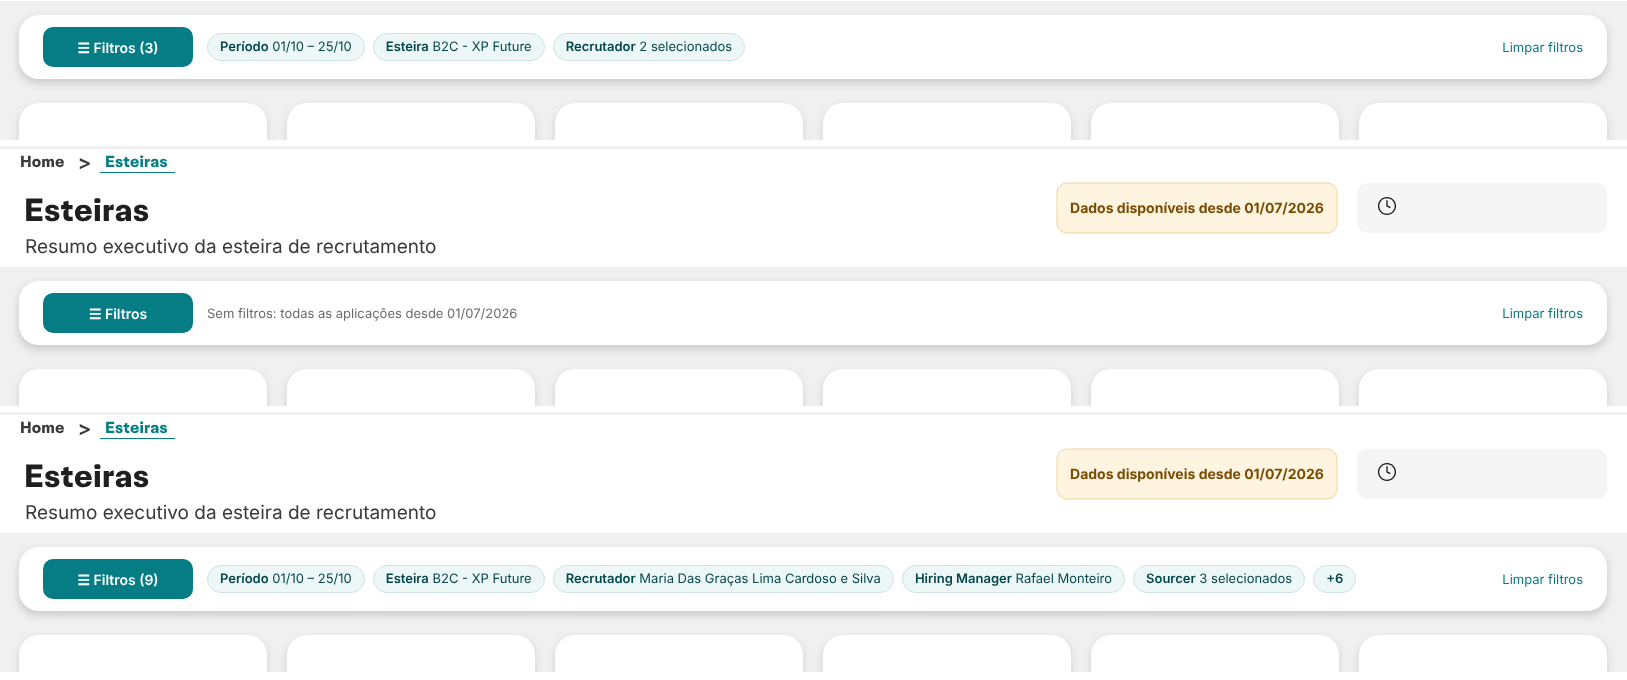
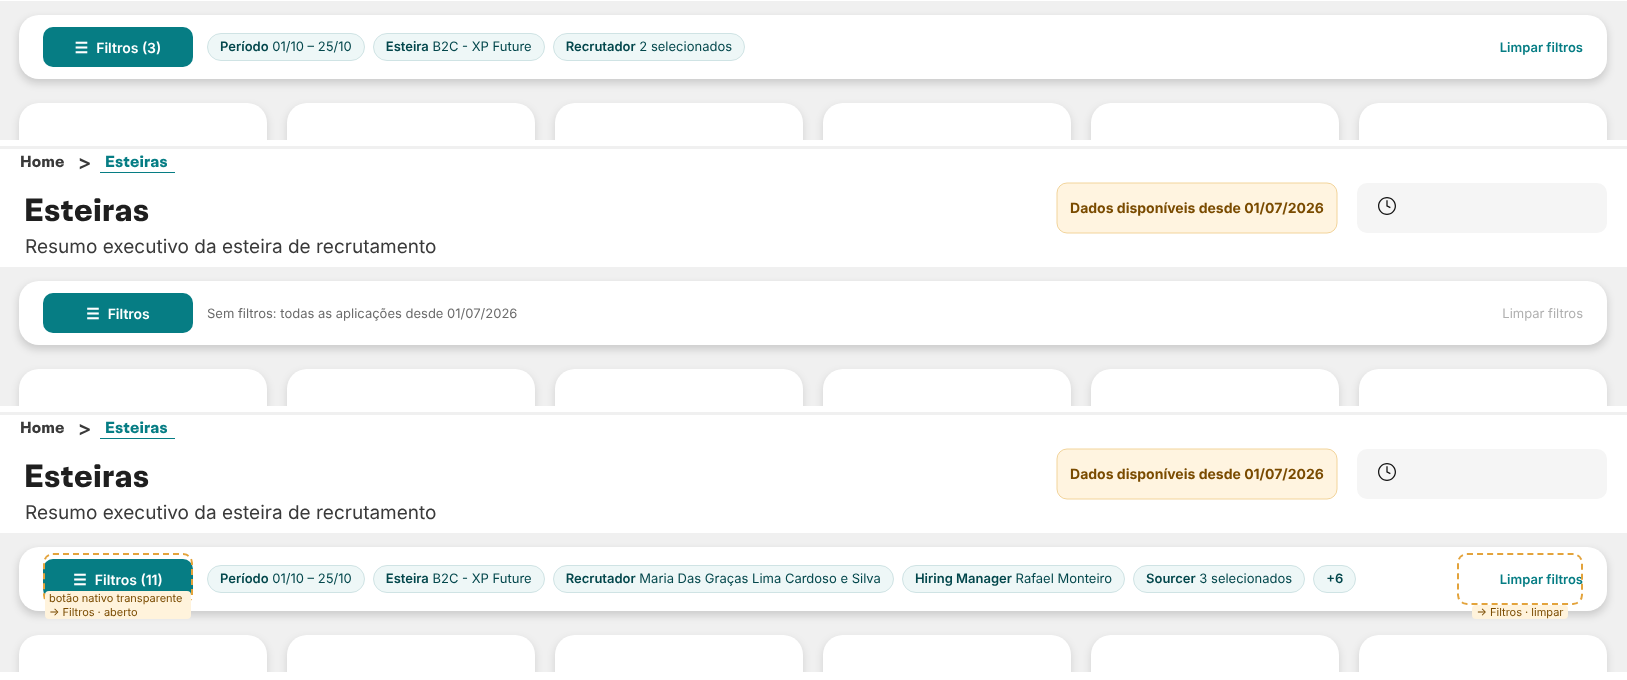
XP · Barra de filtros 1.1.0: botão Filtros, pílulas e Limpar num visual só (cliques por botões nativos transparentes)
Claude-Session: https://claude.ai/code/session_01K4TQMJzhNnUz8FWZ4bGAJu

diff --git a/visuals/xpChips/src/visual.ts b/visuals/xpChips/src/visual.ts
@@ -12,8 +12,11 @@ import IVisualHost = powerbi.extensibility.visual.IVisualHost;
 import { ChipsSettings } from "./settings";
 import { xpFont } from "./xpTheme";
 
-// Pílulas dos filtros em uso. Texto da medida: "Rótulo|valor" separados por ";;".
-// O que não couber vira "+N" (passe o mouse para ver todos).
+interface Chip { label: string; value: string; }
+
+// Barra de filtros: [☰ Filtros (n)] · pílulas dos filtros em uso · Limpar filtros.
+// Visual personalizado não aciona indicadores: os cliques de "Filtros" e "Limpar" vêm de botões nativos
+// transparentes posicionados por cima (larguras fixas em Formatar → Layout).
 export class Visual implements IVisual {
     private host: IVisualHost;
     private root: HTMLElement;
@@ -33,11 +36,14 @@ export class Visual implements IVisual {
         try {
             const dv = options.dataViews && options.dataViews[0];
             this.settings = this.formattingSettingsService.populateFormattingSettingsModel(ChipsSettings, dv);
-            const raw = dv && dv.single ? dv.single.value : null;
-            const chips = String(raw === null || raw === undefined ? "" : raw)
+            const vals = (dv && dv.categorical && dv.categorical.values) || [];
+            const pick = (role: string) => { const c = vals.find(v => v.source.roles && v.source.roles[role]); return c ? c.values[0] : null; };
+            const raw = pick("texto");
+            const chips: Chip[] = String(raw === null || raw === undefined ? "" : raw)
                 .split(";;").map(x => x.trim()).filter(Boolean)
                 .map(x => { const k = x.indexOf("|"); return k < 0 ? { label: "", value: x } : { label: x.slice(0, k).trim(), value: x.slice(k + 1).trim() }; });
-            this.render(chips);
+            const q = Number(pick("qtde"));
+            this.render(chips, isFinite(q) && pick("qtde") !== null ? q : chips.length);
             this.host.eventService.renderingFinished(options);
         } catch (e) {
             this.host.eventService.renderingFailed(options, String(e));
@@ -48,17 +54,28 @@ export class Visual implements IVisual {
         return this.formattingSettingsService.buildFormattingModel(this.settings);
     }
 
-    private render(chips: { label: string; value: string }[]) {
-        const s = this.settings.cores;
+    private render(chips: Chip[], qtde: number) {
+        const s = this.settings;
         const root = this.root;
         root.style.fontFamily = xpFont;
-        root.style.setProperty("--xp-ch-bg", s.fundo.value.value);
-        root.style.setProperty("--xp-ch-border", s.borda.value.value);
-        root.style.setProperty("--xp-ch-text", s.texto.value.value);
+        root.style.setProperty("--xp-ch-accent", s.cores.destaque.value.value);
+        root.style.setProperty("--xp-ch-bg", s.cores.fundo.value.value);
+        root.style.setProperty("--xp-ch-border", s.cores.borda.value.value);
+        root.style.setProperty("--xp-ch-text", s.cores.texto.value.value);
         while (root.firstChild) root.removeChild(root.firstChild);
-        root.removeAttribute("title");
+
+        const btn = el("div", "xp-ch__btn");
+        btn.style.width = Math.max(60, s.layout.larguraBotao.value) + "px";
+        btn.appendChild(el("span", "xp-ch__ico", "☰"));
+        btn.appendChild(document.createTextNode((s.textos.botao.value || "Filtros") + (qtde > 0 ? ` (${qtde})` : "")));
+        const strip = el("div", "xp-ch__strip");
+        const clear = el("div", "xp-ch__clear" + (qtde > 0 || chips.length ? "" : " xp-ch__clear--off"), s.textos.limpar.value || "Limpar filtros");
+        clear.style.width = Math.max(40, s.layout.larguraLimpar.value) + "px";
+        root.append(btn, strip, clear);
+
+        strip.removeAttribute("title");
         if (!chips.length) {
-            root.appendChild(el("span", "xp-ch__empty", this.settings.textos.vazio.value || ""));
+            strip.appendChild(el("span", "xp-ch__empty", s.textos.vazio.value || ""));
             return;
         }
         const nodes = chips.map(c => {
@@ -66,22 +83,22 @@ export class Visual implements IVisual {
             if (c.label) n.appendChild(el("b", "", c.label));
             n.appendChild(document.createTextNode((c.label ? " " : "") + c.value));
             n.title = (c.label ? c.label + ": " : "") + c.value;
-            root.appendChild(n);
+            strip.appendChild(n);
             return n;
         });
         // Esconde do fim para o começo até caber, deixando espaço para o "+N".
         const more = el("span", "xp-ch__chip xp-ch__more", "");
-        root.appendChild(more);
+        strip.appendChild(more);
         more.style.display = "none";
         let hidden = 0;
-        const overflow = () => root.scrollWidth > root.clientWidth + 1;
+        const overflow = () => strip.scrollWidth > strip.clientWidth + 1;
         for (let i = nodes.length - 1; i > 0 && overflow(); i--) {
             nodes[i].style.display = "none";
             hidden++;
             more.textContent = "+" + hidden;
             more.style.display = "";
         }
-        if (hidden) root.title = chips.map(c => (c.label ? c.label + ": " : "") + c.value).join("\n");
+        if (hidden) strip.title = chips.map(c => (c.label ? c.label + ": " : "") + c.value).join("\n");
     }
 }
 

diff --git a/visuals/xpChips/src/settings.ts b/visuals/xpChips/src/settings.ts
@@ -6,23 +6,36 @@ import Card = formattingSettings.SimpleCard;
 import Model = formattingSettings.Model;
 
 class TextosCard extends Card {
+    botao = new formattingSettings.TextInput({ name: "botao", displayName: "Texto do botão", value: "Filtros", placeholder: "" });
+    limpar = new formattingSettings.TextInput({ name: "limpar", displayName: "Texto de limpar", value: "Limpar filtros", placeholder: "" });
     vazio = new formattingSettings.TextInput({ name: "vazio", displayName: "Texto sem filtro", value: "Sem filtros: todas as aplicações desde 01/07/2026", placeholder: "" });
     name = "textos";
     displayName = "Textos";
-    slices = [this.vazio];
+    slices = [this.botao, this.limpar, this.vazio];
+}
+
+// Larguras fixas para o botão nativo transparente ficar exatamente por cima.
+class LayoutCard extends Card {
+    larguraBotao = new formattingSettings.NumUpDown({ name: "larguraBotao", displayName: "Largura do botão (px)", value: 150 });
+    larguraLimpar = new formattingSettings.NumUpDown({ name: "larguraLimpar", displayName: "Largura de limpar (px)", value: 126 });
+    name = "layout";
+    displayName = "Layout";
+    slices = [this.larguraBotao, this.larguraLimpar];
 }
 
 class CoresCard extends Card {
+    destaque = new formattingSettings.ColorPicker({ name: "destaque", displayName: "Cor do botão", value: { value: "#067D84" } });
     fundo = new formattingSettings.ColorPicker({ name: "fundo", displayName: "Fundo da pílula", value: { value: "#EEF7F7" } });
     borda = new formattingSettings.ColorPicker({ name: "borda", displayName: "Borda da pílula", value: { value: "#CFE3E4" } });
     texto = new formattingSettings.ColorPicker({ name: "texto", displayName: "Texto da pílula", value: { value: "#03474C" } });
     name = "cores";
     displayName = "Cores";
-    slices = [this.fundo, this.borda, this.texto];
+    slices = [this.destaque, this.fundo, this.borda, this.texto];
 }
 
 export class ChipsSettings extends Model {
     textos = new TextosCard();
+    layout = new LayoutCard();
     cores = new CoresCard();
-    cards = [this.textos, this.cores];
+    cards = [this.textos, this.layout, this.cores];
 }

diff --git a/visuals/xpChips/style/visual.less b/visuals/xpChips/style/visual.less
@@ -1,7 +1,13 @@
 .xp-ch {
-    position: absolute; inset: 0; display: flex; align-items: center; gap: 8px; overflow: hidden;
+    position: absolute; inset: 0; display: flex; align-items: center; gap: 14px;
     white-space: nowrap; font-size: 13px; color: #121212;
 }
+.xp-ch__btn {
+    flex: 0 0 auto; box-sizing: border-box; height: 40px; display: flex; align-items: center; justify-content: center; gap: 8px;
+    background: var(--xp-ch-accent); color: #FFFFFF; border-radius: 10px; font-weight: 600; font-size: 14px;
+}
+.xp-ch__ico { font-size: 15px; }
+.xp-ch__strip { flex: 1 1 auto; min-width: 0; display: flex; align-items: center; gap: 8px; overflow: hidden; }
 .xp-ch__chip {
     flex: 0 0 auto; border: 1px solid var(--xp-ch-border); background: var(--xp-ch-bg); color: var(--xp-ch-text);
     border-radius: 14px; padding: 5px 12px; line-height: 1.2;
@@ -9,3 +15,5 @@
 }
 .xp-ch__more { font-weight: 600; cursor: help; }
 .xp-ch__empty { color: #6B6B6B; font-size: 13px; }
+.xp-ch__clear { flex: 0 0 auto; text-align: right; color: var(--xp-ch-accent); font-size: 13px; font-weight: 600; }
+.xp-ch__clear--off { color: #B0B0B0; font-weight: 400; }

diff --git a/docs/57-painel-filtros.md b/docs/57-painel-filtros.md
@@ -1,7 +1,7 @@
 # 57 · Painel de filtros (página Resumo primeiro)
 
 Prévia: `docs/mockups/55-painel-filtros-v2.png` · chips: `docs/57-resumo-filtros-preview.png`.
-Pacote novo: `dist/XP - Resumo de filtros 1.0.0.pbiviz`. Medidas: `docs/56-filtros-chips.dax` (já criadas).
+Pacote novo: `dist/XP - Barra de filtros 1.1.0.pbiviz`. Medidas: `docs/56-filtros-chips.dax` (já criadas).
 Fundos novos (faixa de 64 px, conteúdo 139 px acima): `backgrounds/BG - Esteiras_Resumo|Report|Nominal|DataQuality.svg`
 (gerados por `tools/gen_bg_faixa_filtros.py`). Alturas: Resumo 2011 · Report 4305 · Nominal 1581 · Data Quality 1581.
 
@@ -13,12 +13,15 @@ Visual oculto não ocupa espaço nem bloqueia clique. Os indicadores só mostram
 2. Selecione todos os visuais abaixo dos filtros (cards, funil, barras…) → **Ctrl+G** (agrupar) → Formatar → Propriedades → **Y = Y atual − 139**
    (ex.: 362 → 223) → **Ctrl+Shift+G** (desagrupar).
 
-## 2. Faixa (sempre visível)
+## 2. Faixa (sempre visível) · XP · Barra de filtros 1.1.0
+Um visual nosso desenha tudo: botão "☰ Filtros (n)", pílulas dos filtros em uso e "Limpar filtros".
+Visual personalizado não aciona indicadores, então os cliques vêm de **2 botões nativos transparentes** por cima.
 | Item | Como criar | X | Y | L | A | Formatar |
 |---|---|---|---|---|---|---|
-| Botão Filtros | Inserir → Botões → Em branco | 316 | 147 | 150 | 40 | Texto: **fx → Esteira \| Filtros Botão**, Segoe UI Semibold 14, branco · Preenchimento #067D84 · cantos 10 · sem borda · Ação: Indicador → **Filtros · aberto** |
-| Resumo de filtros | visual XP · Resumo de filtros | 480 | 147 | 1230 | 40 | Campo: `Esteira \| Filtros Ativos` · Título e Plano de fundo desligados |
-| Limpar filtros | Inserir → Botões → Em branco | 1730 | 147 | 126 | 40 | Texto "Limpar filtros" 13, #067D84, à direita · sem preenchimento · Ação: Indicador → **Filtros · limpar** |
+| Barra de filtros | visual XP · Barra de filtros | 316 | 141 | 1540 | 52 | Campos: Filtros ativos = `Esteira \| Filtros Ativos` · Quantidade = `Esteira \| Filtros Qtde` · Título e Plano de fundo desligados · Layout: botão 150, limpar 126 |
+| Clique "Filtros" | Botão → Em branco | 316 | 147 | 150 | 40 | Preenchimento **desligado**, borda desligada · Ao passar o mouse: preenchimento branco, transparência 85% · Ação: Indicador → **Filtros · aberto** · Dica: "Abrir filtros" |
+| Clique "Limpar" | Botão → Em branco | 1730 | 147 | 126 | 40 | igual · Ação: Indicador → **Filtros · limpar** · Dica: "Limpar todos os filtros" |
+Os dois botões ficam **acima** da barra na Seleção (Organizar → Trazer para frente).
 
 ## 3. Painel (grupo "Painel de filtros")
 | Item | Como criar | X | Y | L | A | Formatar |
